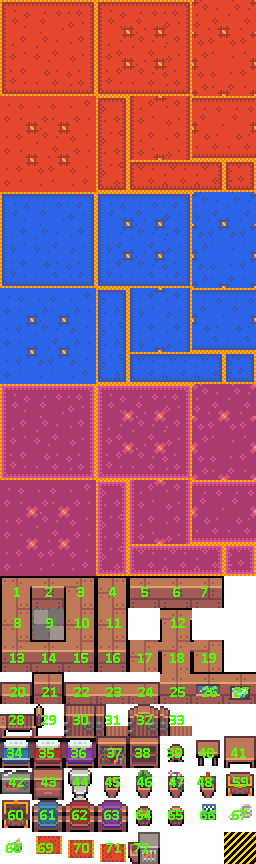
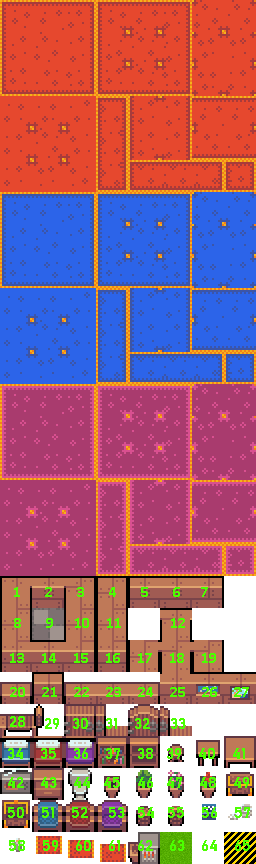
fix tile numbering

diff --git a/tilemap.cpp b/tilemap.cpp
@@ -105,6 +105,7 @@ TileMap::TileMap(State& state, unsigned mapWidth, unsigned mapHeight) :
 	textures.resize(nTextures);
 	for (int i = 1; i < nTextures; i++) {
 		// create new texture for tile of type i
+		std::cout << i << std::endl;
 		textures[i] = &state.createTexture(
 			"res/big_32x32_tileset.png", // TODO make this not a magic string (maybe doesnt matter)
 			sf::IntRect(getTileTexOffset(i), { TILE_SIZE,TILE_SIZE }
@@ -366,12 +367,12 @@ sf::Vector2i TileMap::getTileTexOffset(tileType type) {
 		return { (i - 28) * 32, 704 };
 	if (i <= 41)
 		return { (i - 34) * 32, 736 };
-	if (i <= 59)
+	if (i <= 49)
 		return { (i - 42) * 32, 768 };
-	if (i <= 67)
-		return { (i - 60) * 32, 800 };
-	if (i <= 73)
-		return { (i - 68) * 32, 832 };
+	if (i <= 57)
+		return { (i - 50) * 32, 800 };
+	if (i <= 63)
+		return { (i - 58) * 32, 832 };
 
 	// default set to red rug
 	return { 224, 832 };
@@ -392,9 +393,9 @@ void TileMap::draw(sf::RenderTarget& target, sf::RenderStates states) const {
 	for (unsigned x = left; x < right; x++) {
 		for (unsigned y = top; y < bottom; y++) {
 			const Tile& tile = map[y][x];
-			// no tile - draw grass (73)
+			// no tile - draw grass (63)
 			if (tile.type == 0) {
-				sprTile.setTexture(*textures[73]);
+				sprTile.setTexture(*textures[63]);
 				sprTile.setPosition(x * TILE_SIZE, y * TILE_SIZE);
 				target.draw(sprTile, states);
 				continue;
